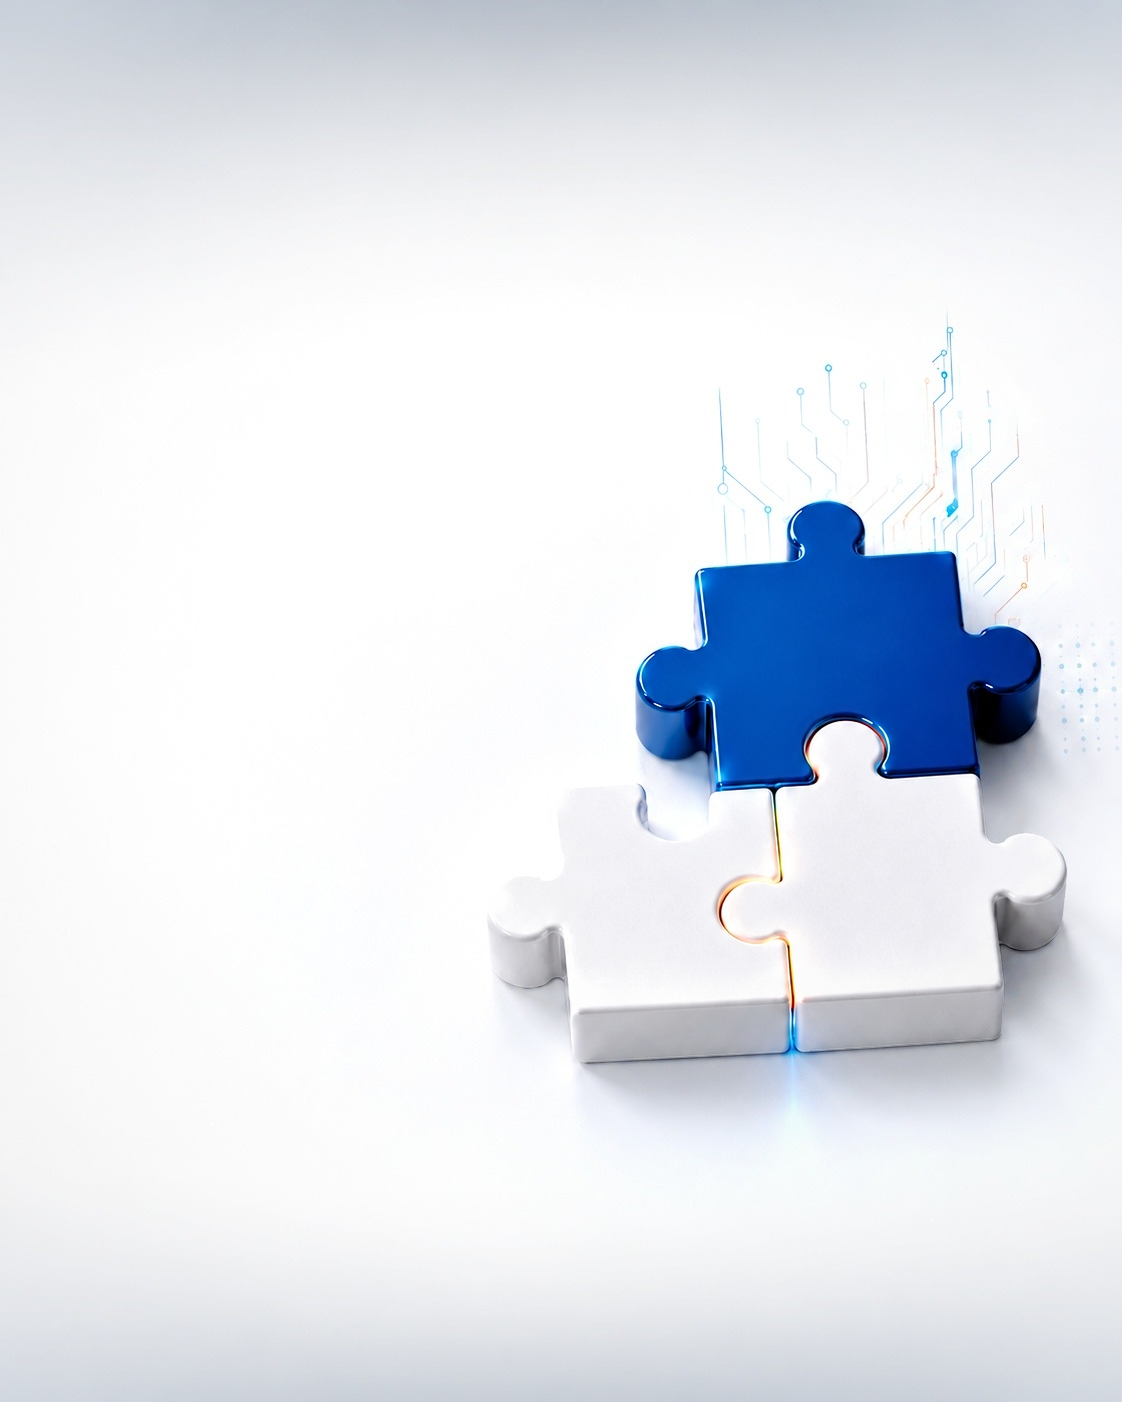
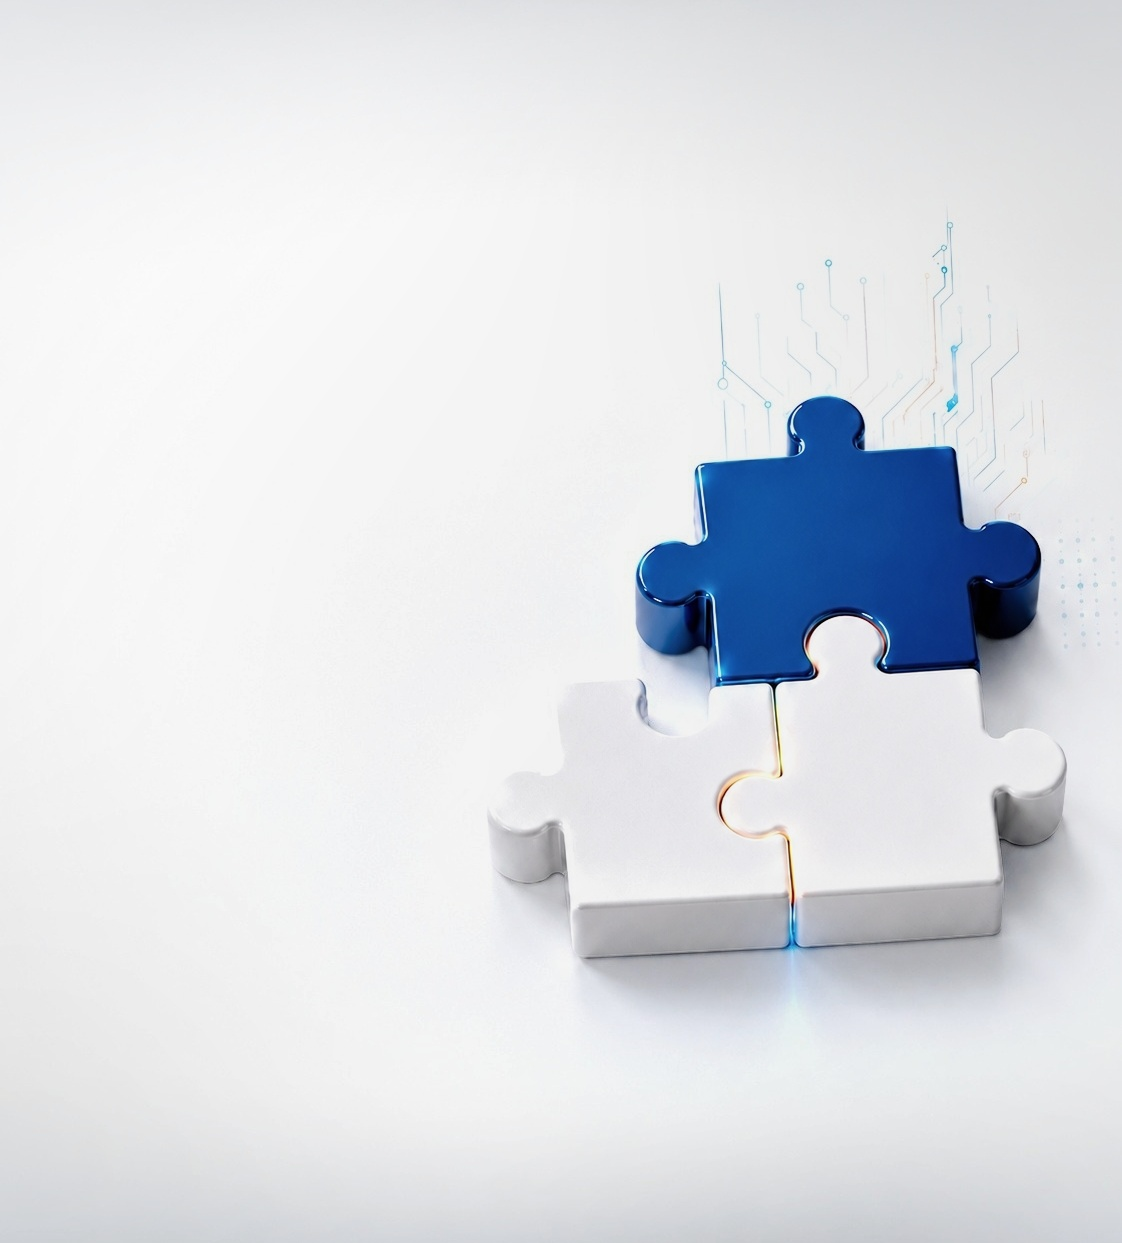
Nieuwe mobiele hero-afbeelding met exacte 1122:1243 beeldverhouding
.hero (mobiel) aspect-ratio aangepast naar 1122/1243, de exacte
verhouding van de nieuwe afbeelding. Bij smalle breedtes (~320-390px)
was deze verhouding te kort voor de bestaande content, waardoor de
CTA-knop over de kop van de volgende sectie heen viel; opgelost met
min-height: 430px als ondergrens. Vanaf ~390px neemt de aspect-ratio
het vanzelf weer over (hoger dan de ondergrens).

Getest op 320-430px: geen tekstoverlap meer, geen horizontale overflow.
Desktop-hero (min-height 650px, geen aspect-ratio) ongewijzigd.

Claude-Session: https://claude.ai/code/session_01NQDSKuto8YwZ1GYMuvEUVC

diff --git a/style.css b/style.css
@@ -292,8 +292,8 @@ body {
   .hero {
     width: 100%;
     height: auto;
-    min-height: 0;
-    aspect-ratio: 4 / 5;
+    min-height: 430px;
+    aspect-ratio: 1122 / 1243;
 
     background-image: url("assets/images/nexai-hero-puzzle.png");
     background-repeat: no-repeat;
